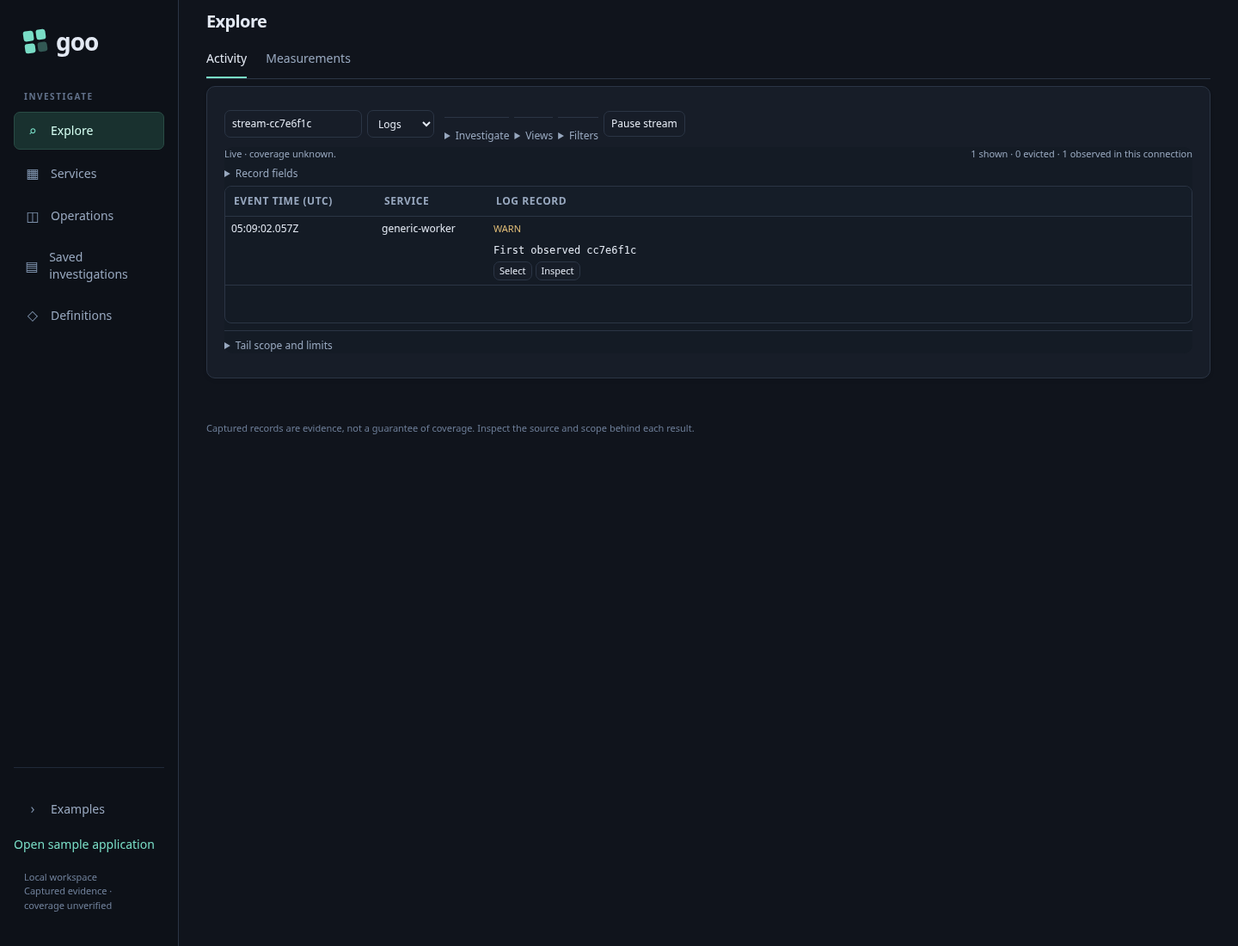
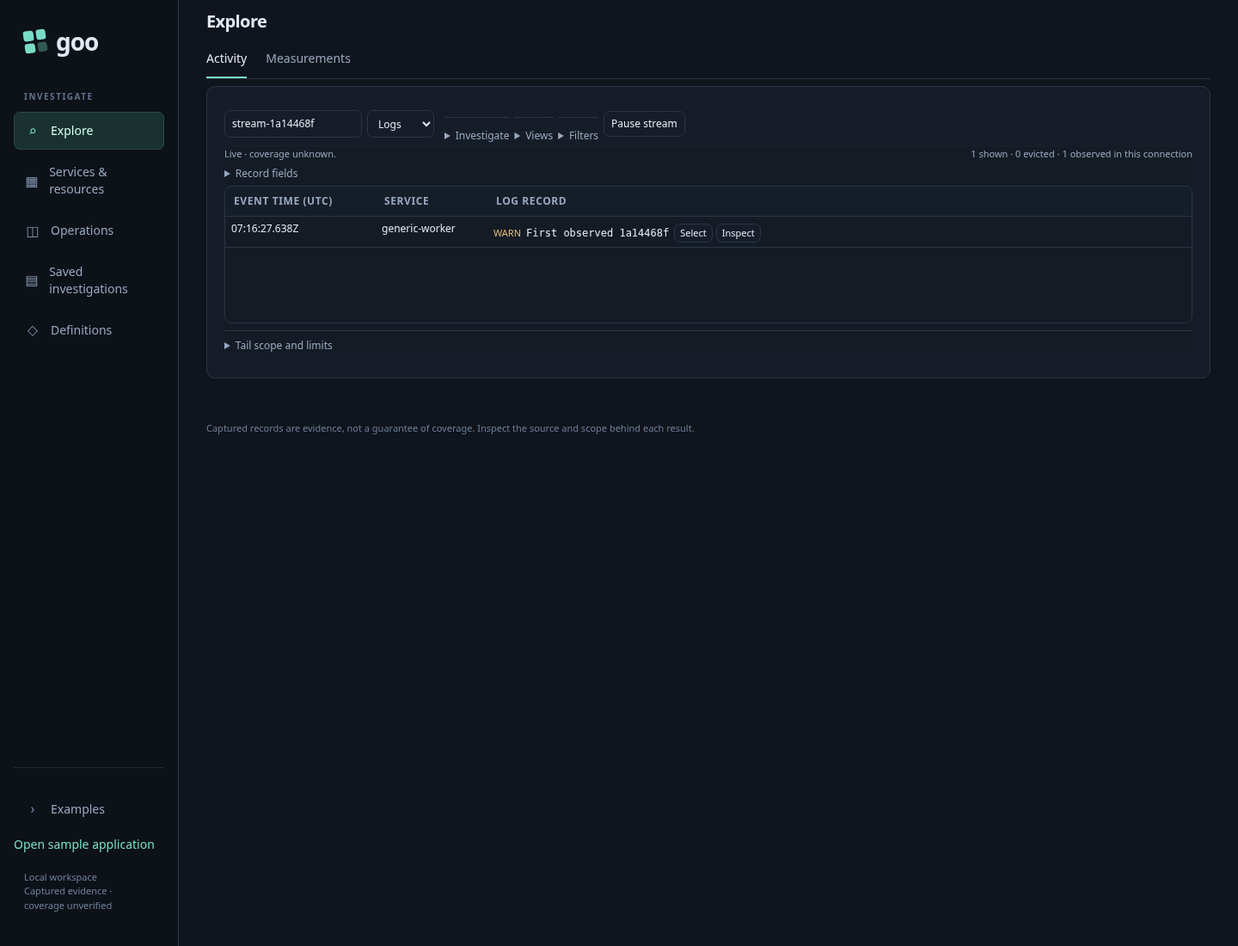
Compact shared observation scan lines and preserve full inspection

diff --git a/journeys/compact-record-components.spec.js b/journeys/compact-record-components.spec.js
@@ -2,7 +2,8 @@ const {test,expect}=require('@playwright/test');const base='http://127.0.0.1:808
 test('161 supplied compact records preserve SSR/SPA semantics standalone and inside tail layout',async({page})=>{
  const reads=[],errors=[];page.on('request',r=>{if(r.url().includes('/api/'))reads.push(r.url())});page.on('pageerror',e=>errors.push(e.message));await page.goto(base+'/ui-components');
  // Synthetic passive contract; this is separate from the real-source journey 160.
- await page.addStyleTag({url:base+'/product.css'});await page.evaluate(async()=>{const Records=await import('/record-presentation.mjs');const host=document.createElement('div');host.className='stream-entry';const tail=document.createElement('section');tail.className='live-tail compact-tail';host.append(tail);document.body.append(host);const t=Records.table({compact:true,context:false});t.viewport.id='spa-records';const {row,cells}=t.row({timestamp_ns:'1790000000123456789',ServiceName:'worker'.repeat(25),Body:'A long message '.repeat(40),SeverityText:'WARN'});for(const text of ['Select','Inspect']){const b=document.createElement('button');b.textContent=text;b.onclick=()=>document.documentElement.dataset.componentAction=text;cells[2].append(b)}t.body.append(row);tail.append(t.viewport);const legacyHost=document.createElement('section');legacyHost.className='live-tail';host.append(legacyHost);const legacy=Records.table({compact:false,context:false});legacy.viewport.id='legacy-records';legacy.body.append(legacy.row({timestamp_ns:'1790000000123456789',ServiceName:'api',Body:'Legacy supplied record'}).row);legacyHost.append(legacy.viewport);const fixedHost=document.createElement('div');fixedHost.className='population-workspace';host.append(fixedHost);const fixed=Records.table({mobileCompact:true});fixed.viewport.id='fixed-records';fixed.element.className='telemetry-table';fixed.header.className='record-columns';const supplied=fixed.row({timestamp_ns:'1790000000123456789',ServiceName:'worker',Body:'Preserved long message '.repeat(40)});supplied.row.className='record-row';const action=document.createElement('button');action.textContent='Inspect';supplied.cells[3].append(action);fixed.body.append(supplied.row);const detail=document.createElement('tr');detail.className='record-detail-row';const cell=document.createElement('td');cell.colSpan=4;cell.textContent='Expanded supplied detail';detail.append(cell);fixed.body.append(detail);fixedHost.append(fixed.viewport)});
+ await page.addStyleTag({url:base+'/product.css'});await page.evaluate(async()=>{const Records=await import('/record-presentation.mjs');const host=document.createElement('div');host.className='stream-entry';const tail=document.createElement('section');tail.className='live-tail compact-tail';host.append(tail);document.body.append(host);const t=Records.table({compact:true,context:false});t.viewport.id='spa-records';const {row,cells}=t.row({timestamp_ns:'1790000000123456789',ServiceName:'worker'.repeat(25),Body:'A long message '.repeat(40),SeverityText:'WARN'});for(const text of ['Select','Inspect']){const b=document.createElement('button');b.textContent=text;b.onclick=()=>document.documentElement.dataset.componentAction=text;cells[2].append(b)}t.body.append(row);const short=t.row({timestamp_ns:'1790000000123456789',ServiceName:'api',Body:'Catalog loaded',SeverityText:'INFO'});short.row.id='compact-short-record';for(const text of ['Select short','Inspect short']){const button=document.createElement('button');button.textContent=text;short.cells[2].append(button)}t.body.append(short.row);tail.append(t.viewport);const legacyHost=document.createElement('section');legacyHost.className='live-tail';host.append(legacyHost);const legacy=Records.table({compact:false,context:false});legacy.viewport.id='legacy-records';legacy.body.append(legacy.row({timestamp_ns:'1790000000123456789',ServiceName:'api',Body:'Legacy supplied record'}).row);legacyHost.append(legacy.viewport);const fixedHost=document.createElement('div');fixedHost.className='population-workspace';host.append(fixedHost);const fixed=Records.table({mobileCompact:true});fixed.viewport.id='fixed-records';fixed.element.className='telemetry-table';fixed.header.className='record-columns';const supplied=fixed.row({timestamp_ns:'1790000000123456789',ServiceName:'worker',Body:'Preserved long message '.repeat(40)});supplied.row.className='record-row';const action=document.createElement('button');action.textContent='Inspect';supplied.cells[3].append(action);fixed.body.append(supplied.row);const detail=document.createElement('tr');detail.className='record-detail-row';const cell=document.createElement('td');cell.colSpan=4;cell.textContent='Expanded supplied detail';detail.append(cell);fixed.body.append(detail);fixedHost.append(fixed.viewport)});
  for(const width of [320,390,700,701,1024]){await page.setViewportSize({width,height:844});for(const id of ['component-record-table','spa-records','fixed-records']){const table=page.locator('#'+id),row=table.locator('tbody>tr').first();await expect(table.getByRole('columnheader',{name:'UTC',exact:true})).toHaveCount(1);const m=await row.evaluate(e=>({display:getComputedStyle(e).display,height:e.getBoundingClientRect().height,overflow:e.scrollWidth>e.clientWidth+1}));expect(m.display).toBe(width<=700?'grid':'table-row');if(width<=700){expect(m.overflow).toBe(false);if(id==='component-record-table')expect(m.height).toBeLessThan(112)}await expect(row.locator('time')).toHaveAttribute('datetime','2026-09-21T14:13:20.123456789Z');if(id==='fixed-records'){await expect(row.locator('.record-time-short')).toBeVisible({visible:width<=700});await expect(row.locator('goo-record-summary details')).toHaveCount(1);expect(await table.locator('.record-detail-row').evaluate(e=>getComputedStyle(e).display)).toBe(width<=700?'block':'table-row')}}expect(await page.locator('#legacy-records tbody>tr').evaluate(e=>getComputedStyle(e).display)).toBe(width<=700?'block':'table-row');expect(await page.evaluate(()=>document.documentElement.scrollWidth<=innerWidth)).toBe(true)}
- await page.setViewportSize({width:390,height:844});const spa=page.locator('#spa-records');await spa.getByRole('button',{name:'Inspect',exact:true}).focus();await page.keyboard.press('Enter');expect(await page.evaluate(()=>document.documentElement.dataset.componentAction)).toBe('Inspect');await spa.evaluate(e=>{e.remove();document.querySelector('.compact-tail').append(e)});await expect(spa.locator('time')).toHaveAttribute('title',/1790000000123456789/);expect(reads).toEqual([]);expect(errors).toEqual([]);
+ await page.setViewportSize({width:1440,height:1000});expect((await page.locator('#compact-short-record').boundingBox()).height).toBeLessThan(48);const line=await page.locator('#compact-short-record goo-record-summary').evaluate(e=>({label:e.querySelector('.record-label').getBoundingClientRect().top,message:e.querySelector('.record-message').getBoundingClientRect().top}));expect(Math.abs(line.label-line.message)).toBeLessThan(8);
+ await page.setViewportSize({width:390,height:844});const spa=page.locator('#spa-records');await spa.getByRole('button',{name:'Inspect',exact:true}).focus();await page.keyboard.press('Enter');expect(await page.evaluate(()=>document.documentElement.dataset.componentAction)).toBe('Inspect');await spa.evaluate(e=>{e.remove();document.querySelector('.compact-tail').append(e)});await expect(spa.locator('time').first()).toHaveAttribute('title',/1790000000123456789/);expect(reads).toEqual([]);expect(errors).toEqual([]);
 });

diff --git a/journeys/218-compact-activity.spec.js b/journeys/218-compact-activity.spec.js
@@ -1,0 +1,44 @@
+const {test,expect}=require('@playwright/test');
+const {randomBytes}=require('node:crypto');
+const {source}=require('./support/cross-app');
+const base='http://127.0.0.1:8088';
+test('218 compact ordinary OTel log and span rows retain UTC, actions and full inspection',async({page,request})=>{
+ const environment='density-'+randomBytes(4).toString('hex'),trace=randomBytes(16).toString('hex');
+ const at=BigInt(Date.now()-1000)*1000000n+123n,attrs=o=>Object.entries(o).map(([key,stringValue])=>({key,value:{stringValue}}));
+ const resource={attributes:attrs({'service.name':'catalog-api','service.namespace':'shop','deployment.environment.name':environment})};
+ const long='Full diagnostic payload: '+'preserved '.repeat(180);
+ const logRecords=Array.from({length:8},(_,i)=>({timeUnixNano:String(at+BigInt(i)*1000000n),traceId:trace,spanId:'0000000000000002',severityText:i===6?'WARN':'INFO',body:{stringValue:i===7?long:'Catalog request completed '+i}}));
+ const spans=[{traceId:trace,spanId:'0000000000000001',name:'GET /catalog',kind:2,startTimeUnixNano:String(at),endTimeUnixNano:String(at+15000000n),status:{code:1}},{traceId:trace,spanId:'0000000000000002',parentSpanId:'0000000000000001',name:'cache.lookup',kind:3,startTimeUnixNano:String(at+1000000n),endTimeUnixNano:String(at+4000000n),status:{code:1}}];
+ expect((await request.post('http://127.0.0.1:4318/v1/logs',{data:{resourceLogs:[{resource,scopeLogs:[{logRecords}]}]}})).ok()).toBe(true);
+ expect((await request.post('http://127.0.0.1:4318/v1/traces',{data:{resourceSpans:[{resource,scopeSpans:[{spans}]}]}})).ok()).toBe(true);
+ for(const table of ['otel_logs','otel_traces'])await expect.poll(async()=>Number((await source(request,"SELECT count() AS n FROM default."+table+" WHERE ResourceAttributes['deployment.environment.name']={env:String} FORMAT JSONEachRow",{param_env:environment}))[0].n),{timeout:45000}).toBeGreaterThan(0);
+ const reads=[],errors=[];page.on('pageerror',e=>errors.push(e.message));page.on('request',r=>{if(r.method()==='POST'&&/\/api\/(tail|explore|measurements)$/.test(new URL(r.url()).pathname))reads.push(r.url())});
+ await page.goto(base+'/');const shell=page.locator('.stream-entry'),tail=shell.locator('.live-tail');
+ await shell.getByLabel('Live environment').fill(environment);await shell.getByRole('button',{name:'Apply scope',exact:true}).click();
+ for(const signal of ['logs','spans']){
+  if(signal==='spans')await shell.getByLabel('Live signal').selectOption('spans');
+  await expect(tail.locator('tbody>tr')).toHaveCount(signal==='logs'?8:2);
+  await shell.getByRole('button',{name:'Pause stream',exact:true}).click();
+  const row=tail.locator('tbody>tr').filter({hasText:signal==='logs'?'Catalog request completed 0':'GET /catalog'}).first();
+  await page.setViewportSize({width:1440,height:1000});expect((await row.boundingBox()).height).toBeLessThan(48);
+  const exact=await row.locator('time').getAttribute('datetime');expect(exact).toMatch(/Z$/);await expect(row.locator('time')).toHaveAttribute('title',/ns since Unix epoch/);
+  await tail.evaluate(e=>{e.querySelector('goo-table').scrollTop=0});
+  await page.evaluate(()=>scrollTo(0,0));await page.screenshot({path:'docs/journeys/screenshots/218a-compact-'+signal+'-desktop.png',fullPage:false});
+  for(const width of [320,390,700,701]){
+   await page.setViewportSize({width,height:844});expect(await page.evaluate(()=>document.documentElement.scrollWidth<=innerWidth)).toBe(true);
+   if(width<=700)for(const button of await row.getByRole('button').all())expect((await button.boundingBox()).height).toBeGreaterThanOrEqual(28);
+  }
+  const before=reads.length,inspect=row.locator('[data-tail-inspect]');await inspect.focus();await page.keyboard.press('Enter');
+  const detail=shell.locator(':scope>.ui-inspector');await expect(detail).toBeVisible();await expect(detail.locator('.attribute-row[data-key=timestamp_ns] time')).toHaveAttribute('datetime',exact);
+  await detail.getByRole('button',{name:'Close selected item details',exact:true}).click();await expect(inspect).toBeFocused();expect(reads).toHaveLength(before);
+  if(signal==='logs'){
+   const longRow=tail.locator('tbody>tr').filter({hasText:'Full diagnostic payload:'});const label=await longRow.locator('.record-label').boundingBox();expect(label.width).toBeGreaterThan(15);expect(label.height).toBeLessThan(24);
+   await longRow.locator('[data-tail-inspect]').click();
+   const disclosure=detail.locator('goo-record-summary details');await disclosure.locator(':scope>summary').click();await expect(disclosure.locator('div')).toHaveText(long);
+   await detail.getByRole('button',{name:'Close selected item details',exact:true}).click();expect(reads).toHaveLength(before);
+  }
+  await page.setViewportSize({width:390,height:844});await tail.evaluate(e=>{e.querySelector('goo-table').scrollTop=0});
+  await page.evaluate(()=>scrollTo(0,0));await page.screenshot({path:'docs/journeys/screenshots/218b-compact-'+signal+'-mobile.png',fullPage:false});
+ }
+ expect(errors).toEqual([]);
+});

diff --git a/verification/bombadil/stream-entry.ts b/verification/bombadil/stream-entry.ts
@@ -1,9 +1,11 @@
 import{always,eventually}from'@antithesishq/bombadil';
 import{extract,actions,registerCustomAction}from'@antithesishq/bombadil/browser';
 export{noUncaughtExceptions,noUnhandledPromiseRejections}from'@antithesishq/bombadil/browser/defaults/properties';
-const s=extract(({document,window})=>({editorCount:document.querySelectorAll('#exploreRun').length,phase:document.querySelector('.stream-entry .live-tail')?.getAttribute('data-state'),retained:Number(document.querySelector('.stream-entry .live-tail')?.getAttribute('data-retained')||0),overflow:document.documentElement.scrollWidth>window.innerWidth,stage:Number(document.documentElement.dataset.entryStage||0)}));
+const s=extract(({document,window})=>({editorCount:document.querySelectorAll('#exploreRun').length,phase:document.querySelector('.stream-entry .live-tail')?.getAttribute('data-state'),retained:Number(document.querySelector('.stream-entry .live-tail')?.getAttribute('data-retained')||0),overflow:document.documentElement.scrollWidth>window.innerWidth,stage:Number(document.documentElement.dataset.entryStage||0),hasInspect:!!document.querySelector('.stream-entry [data-tail-inspect]'),inspector:!!document.querySelector('.stream-entry>.ui-inspector:not([hidden])'),dense:window.innerWidth<1200||[...document.querySelectorAll<HTMLElement>('.stream-entry tbody>tr[data-tail-key]')].filter(row=>{const message=row.querySelector('.record-message')?.textContent||'',service=row.querySelector('[data-record-core=service]')?.textContent||'';return message.length<=40&&!message.includes('\n')&&service.length<=28}).every(row=>row.getBoundingClientRect().height<=48)}));
 export const noEagerFixedEditor=always(()=>s.current.editorCount===0);
+export const shortRowsStayCompact=always(()=>s.current.dense);
 export const bounded=always(()=>s.current.retained<=100&&!s.current.overflow);
 export const pauses=eventually(()=>s.current.stage===1&&s.current.phase==='paused').within(20,'seconds');
+const inspect=registerCustomAction('goo.inspectEntry',async(document,_window,close:boolean)=>{if(close){document.querySelector<HTMLButtonElement>('.stream-entry>.ui-inspector [aria-label="Close selected item details"]')!.click();document.documentElement.dataset.entryStage='3'}else{document.querySelector<HTMLButtonElement>('.stream-entry [data-tail-inspect]')!.click();document.documentElement.dataset.entryStage='2'}});
 const pause=registerCustomAction('goo.pauseEntry',async(document)=>{Array.from(document.querySelectorAll<HTMLButtonElement>('.stream-entry-toolbar button')).find(b=>b.textContent==='Pause stream')!.click();document.documentElement.dataset.entryStage='1'});
-export const choices=actions(()=>s.current.stage===0&&['unknown','partial'].includes(s.current.phase||'')?[pause()]:['Wait']);
+export const choices=actions(()=>s.current.stage===0&&['unknown','partial'].includes(s.current.phase||'')?[pause()]:s.current.stage===1&&s.current.hasInspect?[inspect(false)]:s.current.stage===2&&s.current.inspector?[inspect(true)]:['Wait']);

diff --git a/ui/record-presentation.css b/ui/record-presentation.css
@@ -5,7 +5,11 @@ goo-record-summary .record-label[data-tone=error]{color:var(--danger,#f59a9a)}
 goo-record-summary .record-label[data-tone=warn]{color:var(--warn,#e1bd77)}
 goo-record-summary .record-message{white-space:pre-wrap;overflow-wrap:anywhere}
 goo-record-summary:not([compact])>.record-message{max-height:none;overflow:visible;min-width:0}
-goo-record-summary[compact] .record-message{max-height:4.2em;overflow:hidden}
+/* Short compact records keep metadata and message on one scan line; full detail
+   remains a block. Native table cells retain their own actions and ownership. */
+goo-record-summary[compact]{display:inline-flex;gap:2px 6px;align-items:baseline;vertical-align:middle;max-width:100%}
+goo-record-summary[compact]>.record-label,goo-record-summary[compact]>.record-duration{flex:0 0 auto;min-width:0;max-width:min(12em,100%)}
+goo-record-summary[compact]>.record-message{flex:1 1 auto;min-width:0;margin:0;display:-webkit-box;-webkit-box-orient:vertical;-webkit-line-clamp:2;line-clamp:2;max-height:2lh;overflow:hidden}
 goo-record-summary details{border:0;margin:0;padding:0}
 goo-record-context{display:block;min-width:0;margin:4px 0;font-size:11px}
 goo-record-context>details{padding-top:4px;margin-top:4px}
@@ -15,6 +19,9 @@ goo-record-context .record-reference{display:inline-block;margin:4px 6px 4px 0;b
 .record-time-short{display:none}
 
 /* Opt-in supplied record rows, shared by SSR tables and application adapters. */
+@media(min-width:701px){
+ goo-table[record-layout=compact]>table>tbody>tr>td[data-record-core=summary]>goo-record-summary[compact]{margin-inline-end:6px}
+}
 @media(max-width:700px){
  goo-table[record-layout=compact] .record-time-full{position:absolute;width:1px;height:1px;padding:0;overflow:hidden;clip-path:inset(50%);white-space:nowrap}
  goo-table[record-layout=compact] .record-time-short{display:inline}

diff --git a/ui/product.css b/ui/product.css
@@ -1320,7 +1320,6 @@ td details {
 .stream-entry .compact-tail td{padding:5px 7px;font-size:12px;vertical-align:top;overflow-wrap:anywhere}
 .stream-entry .compact-tail th[data-record-core=utc]{width:175px}
 .stream-entry .compact-tail th[data-record-core=service]{width:130px}
-.stream-entry .compact-tail .tail-message{min-width:0;white-space:pre-wrap;max-height:3.6em;overflow:hidden}
 .stream-entry .compact-tail td button{padding:2px 6px;font-size:11px;margin:3px 4px 0 0}
 .stream-entry .tail-counts,.stream-entry goo-result-state{font-size:11px;margin:5px 0}
 .entry-advanced{margin:14px 0;border-top:1px solid var(--border);padding-top:10px}
@@ -1331,7 +1330,6 @@ td details {
  .stream-entry .compact-tail th[data-record-core=service]{width:65px}
  .stream-entry .compact-tail td{padding:4px;font-size:11px}
  .stream-entry .compact-tail td[data-record-core=utc]{word-break:break-word}
- .stream-entry .compact-tail .tail-message{max-height:4.2em}
  .stream-entry .compact-tail>goo-table{max-height:55vh}
  .stream-entry-toolbar input{width:130px}
  .stream-entry-active .investigation-trail{margin-block:6px}

diff --git a/docs/ROADMAP_2026_10_28.md b/docs/ROADMAP_2026_10_28.md
@@ -30,8 +30,8 @@ support, complete service health or a replacement for ClickStack ingestion.
 | ID | Outcome / bounded work | Acceptance before advancing |
 | --- | --- | --- |
 | R1 — delivered (217) | Stop legacy operation/HTTP source work when its owner is left, superseded or changed. Extend the existing decoded JSON transport to admitted GETs; preserve sequential package/revision checks and saved publication. | Real delayed response/body after workspace change starts no hidden rates/histogram reads and renders no late data. Query cancellation reaches its matching ID, capacity releases, retries work, and normal operation/native results still render. Add regression tests and the relevant Bombadil action/invariant. |
-| R2 — next: compact observations | Reduce repeated severity/message/action rows through shared record-summary/table styles and semantics. Apply to real compact live/fixed contexts without hiding necessary actions or exact time/details. | Desktop/mobile real-data frames; short rows materially denser; long values inspectable; keyboard/touch actions and narrow layout work. Shared component tests and live interaction/Bombadil checks stay current. No source/saved-result change. |
-| R3 — measured startup work | Remove duplicate configuration/catalog reads and unnecessary hidden-surface work demonstrated by a before/after request/DOM profile. Start with one catalog owner pair; keep explicit refresh and invalidation. | Fewer duplicate requests without suppressing required refresh, changing query scope or breaking direct links. Compare the same local task; make only measured claims. No mandatory bundler/framework or generic global data cache. |
+| R2 — delivered (218) | Reduce repeated severity/message/action rows through shared record-summary/table styles and semantics. Apply to real compact live/fixed contexts without hiding necessary actions or exact time/details. | Desktop/mobile real-data frames; short rows materially denser; long values inspectable; keyboard/touch actions and narrow layout work. Shared component tests and live interaction/Bombadil checks stay current. No source/saved-result change. |
+| R3 — next: measured startup work | Remove duplicate configuration/catalog reads and unnecessary hidden-surface work demonstrated by a before/after request/DOM profile. Start with one catalog owner pair; keep explicit refresh and invalidation. | Fewer duplicate requests without suppressing required refresh, changing query scope or breaking direct links. Compare the same local task; make only measured claims. No mandatory bundler/framework or generic global data cache. |
 | R4 — Saved and Definitions entrance | Simplify stacked entrance controls and improve kind/scope/origin discovery using the existing catalog/list primitives. | Recent/useful items appear early; search/filter/pagination and source-free reopen remain exact. Similar titles do not merge different identities. Preserve drafts, publication retries and all saved volumes. |
 | R5 — operational question clarity | Unify scope/window/return presentation between Activity, service/resource defaults and supporting records. Add an optional query-cost/failure inspector only with actual source diagnostics. | One end-to-end service/resource investigation preserves selected identity, unit, fixed/rolling window and return state; empty, refused, stale and unknown states remain distinct. Never infer health or cost from output size alone. |
 | L1 — finite library follow-up | Clarify prepared `measurement` versus native `measurements`; replace/remove unchecked hashes only after mapping real definition/reference consumers. Finish justified metadata simplification without a store rewrite. | Ordinary external consumer example for each retained package; checked concrete revision APIs where needed; preserved or explicitly migrated real saved identifiers; no permanent alias scaffolding or unused receipt machinery. |

diff --git a/journeys/218-compact-activity-storyboard.md b/journeys/218-compact-activity-storyboard.md
@@ -1,0 +1,42 @@
+# 218 — Scan observations densely, inspect without losing detail
+
+An engineer starts with ordinary OTel logs/spans from a catalog service. No goo
+manifest is required. Short records keep severity/status, message and duration on
+one desktop scan line; existing trace, selection and inspection controls remain
+available. Long messages use two complete preview lines and keep the original
+text in the inspector.
+
+| User journey | Executable expectation |
+| --- | --- |
+| Scope Activity to the catalog service's environment | Eight real OTLP logs and two spans arrive through the collector/ClickHouse path. |
+| Pause and scan the log/span rows | Short desktop rows stay below 48 pixels at 1440px; UTC time retains exact nanosecond tooltips. |
+| Use a narrow viewport | 320/390/700/701px layouts do not create horizontal page overflow; mobile actions retain 28px minimum height. |
+| Focus Inspect and press Enter | The held record opens without another source read; exact time is preserved and closing returns focus. |
+| Inspect the long diagnostic message | The full unmodified text is available in a local disclosure; severity remains readable rather than squeezed into a vertical column. |
+| Reuse the same component outside the app | Existing SSR/detached-SPA, standalone/nested and fixed-record tests retain their data/keyboard/long-value contracts. |
+
+Run:
+
+```sh
+npx playwright test journeys/218-compact-activity.spec.js journeys/compact-record-components.spec.js --reporter=line
+GOO_ENTRY_BOMBADIL=1 npx playwright test journeys/stream-entry.spec.js --grep '102 fresh' --reporter=line
+```
+
+The entry Bombadil actor now checks short-row density and pauses, inspects and
+closes a held record. Existing overflow/buffer bounds and no-eager-fixed-editor
+invariants remain. The 102 journey still validates its observed Quint ledger and
+negative controls. The component gallery's synthetic fixtures remain explicitly
+separate from this real-source product journey.
+
+| Logs, desktop | Logs, mobile |
+| --- | --- |
+| ![Compact logs](../docs/journeys/screenshots/218a-compact-logs-desktop.png) | ![Compact mobile logs](../docs/journeys/screenshots/218b-compact-logs-mobile.png) |
+
+| Spans, desktop | Spans, mobile |
+| --- | --- |
+| ![Compact spans](../docs/journeys/screenshots/218a-compact-spans-desktop.png) | ![Compact mobile spans](../docs/journeys/screenshots/218b-compact-spans-mobile.png) |
+
+This changes passive display styling and removes duplicate app-specific message
+height overrides. It adds no source read, field conversion, selection semantics,
+widget state, saved format or new control bar. Full noncompact detail remains
+unclamped. Chromium was checked; broader browser support is not established.

diff --git a/VALIDATION.md b/VALIDATION.md
@@ -1,5 +1,29 @@
 # Validation record
 
+## Compact shared observation rows — 218 (2026-10-28 UTC)
+
+Compact record summaries now align severity/status, body and duration on one
+short desktop scan line. Long bodies preview two complete lines with an ellipsis;
+labels do not squeeze into vertical letters. Full noncompact detail remains
+available. Shared record CSS owns the behavior and desktop action spacing;
+duplicate Activity message-height overrides are removed from product CSS.
+No data API, source read, filter, saved format or widget state is added.
+
+Validation: real ordinary-OTLP log/span journey 218 and expanded standalone/nested
+SSR/detached-SPA component journey 161 pass in Chromium. Short rows stay under
+48px at the checked 1440px viewport; long labels/text, exact UTC tooltips, local
+full-text inspection and keyboard focus return pass. Narrow 320/390/700/701px
+layouts avoid page overflow and preserve 28px mobile action targets. Journey 102
+passes with its observed Quint ledger/negative checks and updated Bombadil
+pause/inspect/close and short-row-density invariants. Current 218 desktop/mobile
+frames and the affected 102 entry frames are regenerated from the real app.
+
+Updated component docs, storyboard, live-activity guidance and roadmap status.
+No new Go/Hegel or whole-Node rerun was needed for this CSS-only production cut;
+R1's full frontend suite remains the preceding JS baseline. Firefox/Safari
+conformance is not established. Disposable local review/build/campaign artifacts
+are removed, while useful documentation frames and all saved lab volumes remain.
+
 ## Legacy browser source ownership — 217 (2026-10-28 UTC)
 
 The four admitted legacy source GETs now use decoded `getJSON` transport with

diff --git a/docs/UI_COMPONENTS.md b/docs/UI_COMPONENTS.md
@@ -199,6 +199,27 @@ flowchart LR
   Q[Application: queries and evidence state] --> SPA
 ```
 
+## Compact record scan lines (218)
+
+`goo-record-summary[compact]` now keeps ordinary severity/status, message and
+duration inline on desktop, with a two-line message preview for long values.
+The label cannot collapse into a vertical letter column. Full noncompact summaries
+and the owner-provided inspector retain the original record text. The behavior is
+in `record-presentation.css`; duplicate Activity-specific height/clipping overrides
+are removed from product CSS. No event, subscription or data API is added.
+
+```html
+<link rel="stylesheet" href="/record-presentation.css">
+<script type="module" src="/display.mjs"></script>
+<goo-record-summary compact signal="logs"
+  record='{"Body":"Catalog loaded","SeverityText":"INFO"}'></goo-record-summary>
+```
+
+Opt-in record tables keep caller-owned actions beside short summaries at desktop
+widths. Existing narrow row grouping, exact UTC metadata and touch targets remain.
+SSR/detached-SPA, standalone/nested and real ordinary-OTel checks are in
+[the 218 storyboard](../journeys/218-compact-activity-storyboard.md).
+
 ## Supplied record and range composition
 
 `goo-record-columns` accepts a `model` JSON attribute for server HTML or a

diff --git a/docs/LIVE_ACTIVITY.md b/docs/LIVE_ACTIVITY.md
@@ -177,3 +177,10 @@ filters. Both stage before Run, disclose editing separately and return to the
 paused parent without resubscribing. Neither preserves held rows as evidence.
 
 [Activity navigation](ACTIVITY_NAVIGATION.md) consolidates current-window analysis and fixed authoring under the folded Investigate menu. Rolling configuration discovery remains in Views; the duplicated below-stream question/saved entrance is hidden while Activity is active.
+
+## Compact observation rows (218)
+
+Short log/span summaries now share one desktop scan line for status, message and
+duration, with existing actions alongside. Long bodies preview two complete lines;
+full text remains in the local inspector. No new source read or control is added.
+See [the real OTel storyboard and current frames](../journeys/218-compact-activity-storyboard.md).

diff --git a/docs/BOMBADIL_TESTING.md b/docs/BOMBADIL_TESTING.md
@@ -552,3 +552,11 @@ actor. Actions inspect operations, evaluate HTTP previews, change scope and leav
 workspaces. Invariants require exercised source reads, query IDs, visible owners,
 stopped hidden readers and no uncaught errors. It performs no saves or workload
 changes. See [the storyboard](../journeys/217-legacy-query-ownership-storyboard.md).
+
+## Compact Activity (218)
+
+The existing `stream-entry.ts` actor now checks short desktop row density and
+exercises pause → inspect → close without adding a source read. It keeps its
+buffer/overflow and no-eager-editor invariants. Run the 102 entry journey with
+`GOO_ENTRY_BOMBADIL=1`; the [218 storyboard](../journeys/218-compact-activity-storyboard.md)
+adds real log/span geometry, full-text and touch/keyboard checks.

diff --git a/docs/journeys/README.md b/docs/journeys/README.md
@@ -2496,3 +2496,9 @@ Explicit exact-resource lookup and pure planning load at most two receiver-pinne
 real delayed operation/rate/histogram/HTTP responses, leave/scope/visibility
 cancellation, source-free return and explicit retry, plus a bounded Bombadil actor.
 This behavior-only cut changes no layout or historical screenshots.
+
+218 records [dense ordinary OTel observation rows](../../journeys/218-compact-activity-storyboard.md)
+with current log/span desktop/mobile frames. Short rows stay below 48px at the
+checked desktop size; full message inspection, UTC details and touch/keyboard
+controls remain. Journey 102 frames and its Bombadil inspect/close/density checks
+are updated; the observed entry Quint contract remains unchanged.
